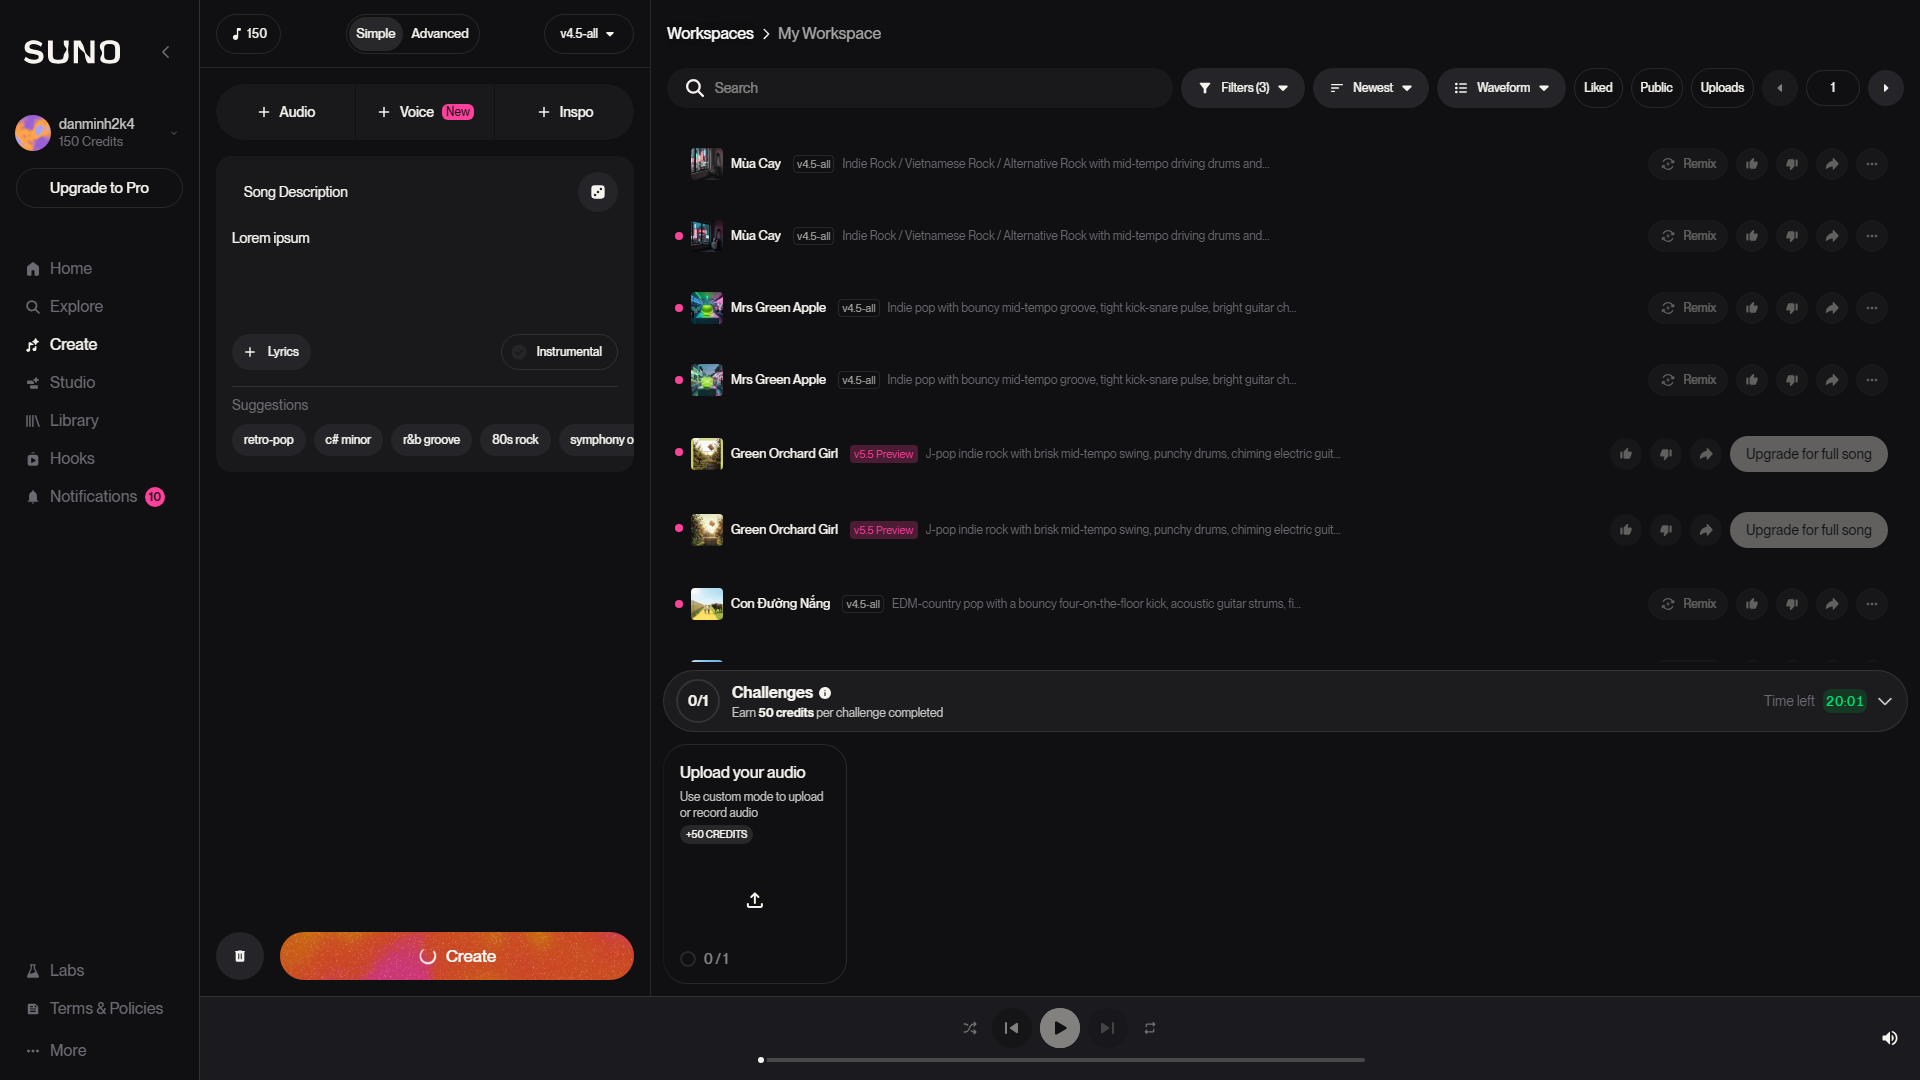
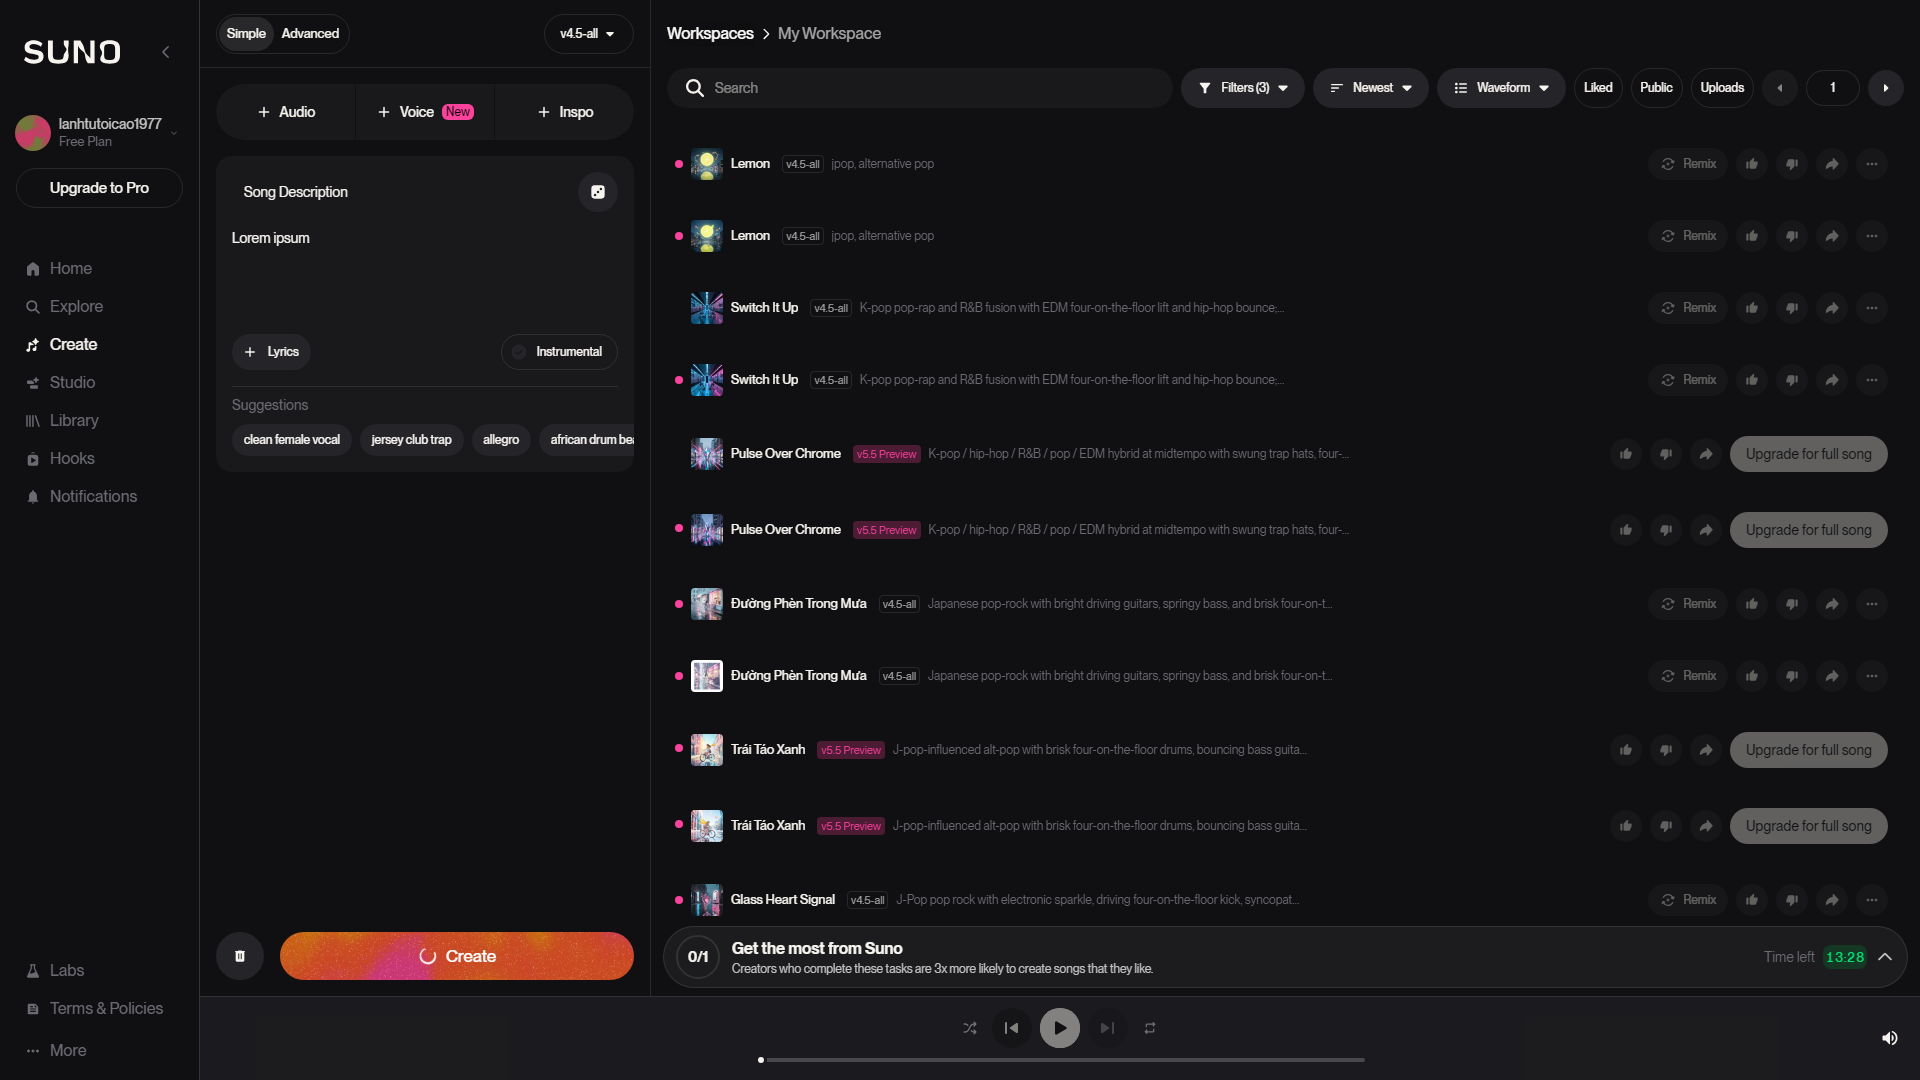
fix: all routes now read x-suno-cookie header

diff --git a/src/app/api/concat/route.ts b/src/app/api/concat/route.ts
@@ -19,7 +19,9 @@ export async function POST(req: NextRequest) {
           }
         });
       }
-      const audioInfo = await (await sunoApi((await cookies()).toString())).concatenate(clip_id);
+      const customCookie = req.headers.get('x-suno-cookie');
+      const cookieStr = customCookie || (await cookies()).toString();
+      const audioInfo = await (await sunoApi(cookieStr)).concatenate(clip_id);
       return new NextResponse(JSON.stringify(audioInfo), {
         status: 200,
         headers: {

diff --git a/src/app/api/extend_audio/route.ts b/src/app/api/extend_audio/route.ts
@@ -21,7 +21,9 @@ export async function POST(req: NextRequest) {
         });
       }
 
-      const audioInfo = await (await sunoApi((await cookies()).toString()))
+      const customCookie = req.headers.get('x-suno-cookie');
+      const cookieStr = customCookie || (await cookies()).toString();
+      const audioInfo = await (await sunoApi(cookieStr))
         .extendAudio(audio_id, prompt, continue_at, tags || '', negative_tags || '', title, model || DEFAULT_MODEL, wait_audio || false);
 
       return new NextResponse(JSON.stringify(audioInfo), {

diff --git a/src/app/api/generate_lyrics/route.ts b/src/app/api/generate_lyrics/route.ts
@@ -11,7 +11,9 @@ export async function POST(req: NextRequest) {
       const body = await req.json();
       const { prompt } = body;
 
-      const lyrics = await (await sunoApi((await cookies()).toString())).generateLyrics(prompt);
+      const customCookie = req.headers.get('x-suno-cookie');
+      const cookieStr = customCookie || (await cookies()).toString();
+      const lyrics = await (await sunoApi(cookieStr)).generateLyrics(prompt);
 
       return new NextResponse(JSON.stringify(lyrics), {
         status: 200,

diff --git a/src/app/api/generate_stems/route.ts b/src/app/api/generate_stems/route.ts
@@ -21,7 +21,9 @@ export async function POST(req: NextRequest) {
         });
       }
 
-      const audioInfo = await (await sunoApi((await cookies()).toString()))
+      const customCookie = req.headers.get('x-suno-cookie');
+      const cookieStr = customCookie || (await cookies()).toString();
+      const audioInfo = await (await sunoApi(cookieStr))
         .generateStems(audio_id);
 
       return new NextResponse(JSON.stringify(audioInfo), {

diff --git a/src/app/api/get_aligned_lyrics/route.ts b/src/app/api/get_aligned_lyrics/route.ts
@@ -21,7 +21,9 @@ export async function GET(req: NextRequest) {
         });
       }
 
-      const lyricAlignment = await (await sunoApi((await cookies()).toString())).getLyricAlignment(song_id);
+      const customCookie = req.headers.get('x-suno-cookie');
+      const cookieStr = customCookie || (await cookies()).toString();
+      const lyricAlignment = await (await sunoApi(cookieStr)).getLyricAlignment(song_id);
 
 
       return new NextResponse(JSON.stringify(lyricAlignment), {

diff --git a/src/app/api/get/route.ts b/src/app/api/get/route.ts
@@ -11,7 +11,8 @@ export async function GET(req: NextRequest) {
       const url = new URL(req.url);
       const songIds = url.searchParams.get('ids');
       const page = url.searchParams.get('page');
-      const cookie = (await cookies()).toString();
+      const customCookie = req.headers.get('x-suno-cookie');
+      const cookie = customCookie || (await cookies()).toString();
 
       let audioInfo = [];
       if (songIds && songIds.length > 0) {